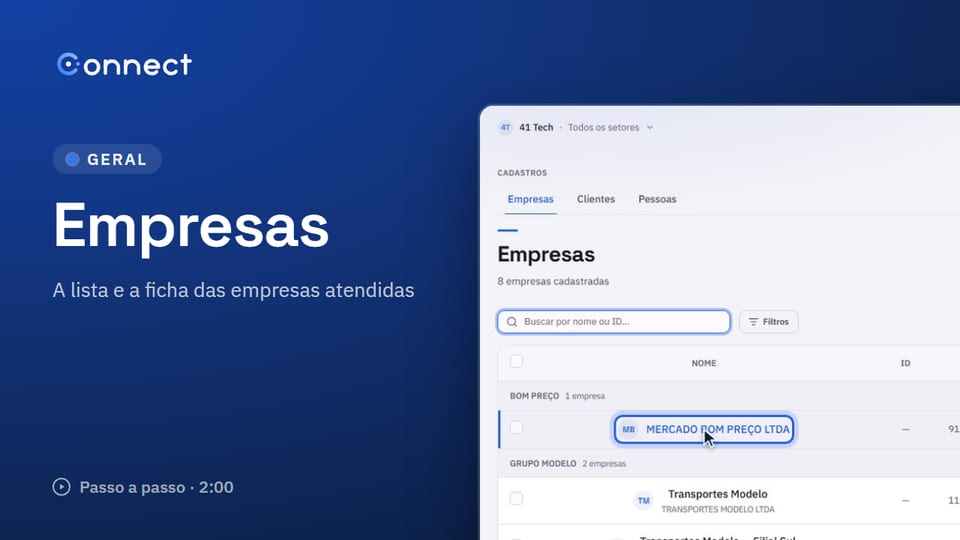
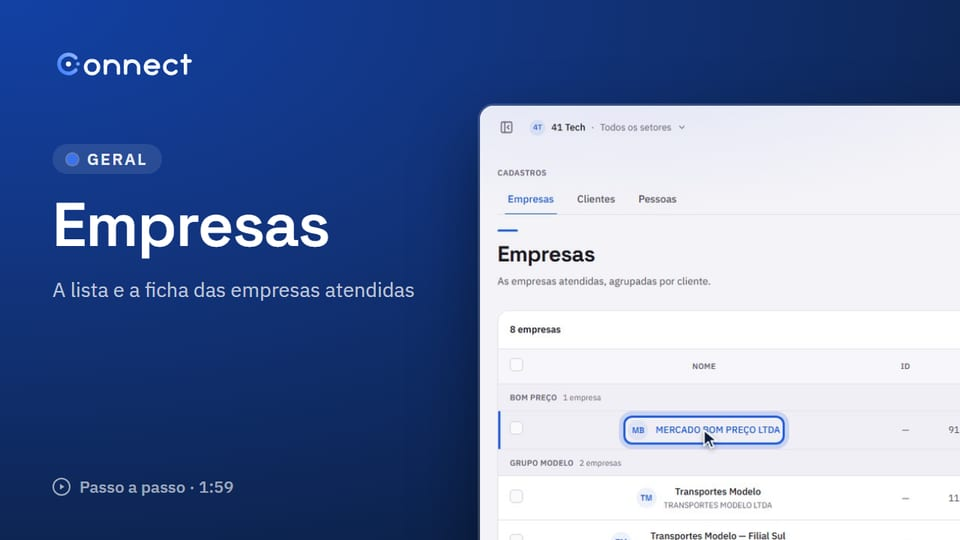
Vídeos: roteiros acompanham as telas de 08/10, e as miniaturas do 22 e do 25
Os vídeos 22 (Empresas) e 25 (Solicitações) foram regravados contra o
Connect local depois dos envios ao cliente irem para Solicitações. Para isso
o roteiro acompanhou o que mudou nas telas:
- escolher opção abre o seletor próprio (#141) e clica na opção — vale para
  os 31 usos do ajudante; o <select> nativo continua funcionando;
- a busca das listas virou campo de busca com o limpar próprio: achada pelo
  texto de exemplo;
- as etapas do cadastro são lista numerada, não abas.
As miniaturas dos dois foram geradas de novo das gravações novas.

diff --git a/scripts/videos/equipe.ts b/scripts/videos/equipe.ts
@@ -52,14 +52,36 @@ async function escolherEmpresa(r: Roteiro, busca: string, legenda = "Escolha a e
 
 /** Escolhe uma opção num `<select>` comum, com o anel e o clique visíveis. */
 async function selecionar(r: Roteiro, campo: Locator, opcao: string | { label: string } | RegExp, legenda?: string) {
-  await r.apontar(campo, legenda);
-  if (opcao instanceof RegExp) {
-    const valor = await campo.locator("option").filter({ hasText: opcao }).first().getAttribute("value");
-    await campo.selectOption(valor ?? "");
-  } else {
-    await campo.selectOption(opcao);
+  // O seletor do Connect (08/10/2026, #141) é um botão "combobox" com a lista
+  // num painel próprio; o `<select>` de verdade fica escondido ao lado, só para
+  // o formulário. Gravar como a pessoa faz: abrir e clicar na opção.
+  const tag = await campo.evaluate((el) => el.tagName.toLowerCase());
+  if (tag === "select") {
+    await r.apontar(campo, legenda);
+    if (opcao instanceof RegExp) {
+      const valor = await campo.locator("option").filter({ hasText: opcao }).first().getAttribute("value");
+      await campo.selectOption(valor ?? "");
+    } else {
+      await campo.selectOption(opcao);
+    }
+    await r.pausa(600);
+    return;
   }
-  await r.pausa(600);
+  let rotulo: string | RegExp = opcao instanceof RegExp ? opcao : typeof opcao === "string" ? opcao : opcao.label;
+  if (typeof opcao === "string") {
+    // Quem chama às vezes passa o value: o texto da opção vem do <select> escondido.
+    const doValor = await campo
+      .locator("xpath=preceding-sibling::select[1]")
+      .locator(`option[value="${opcao.replace(/"/g, '\\"')}"]`)
+      .first()
+      .textContent({ timeout: 1000 })
+      .catch(() => null);
+    if (doValor?.trim()) rotulo = doValor.trim();
+  }
+  await r.clicar(campo, legenda);
+  const opcaoNaLista = r.page.getByRole("listbox").last().getByRole("option", typeof rotulo === "string" ? { name: rotulo, exact: true } : { name: rotulo });
+  await r.clicar(opcaoNaLista.first());
+  await r.pausa(400);
 }
 
 /** Datas do Connect (`CampoData`): digitar vale, com máscara; Tab fecha o calendário. */
@@ -462,7 +484,7 @@ function videosDoBpo(apoio: string): DefinicaoDeVideo[] {
           main(r).getByRole("link", { name: "Todos" }),
           "As abas Fornecedores, Sacados e Todos separam os cadastros. O que ainda não tem conta aparece nas duas primeiras."
         );
-        await r.apontar(main(r).getByRole("textbox", { name: /Buscar por nome/ }), "Busque pelo nome ou documento e tecle Enter.");
+        await r.apontar(main(r).getByPlaceholder(/Buscar por nome/), "Busque pelo nome ou documento e tecle Enter.");
         await r.apontar(
           main(r).getByRole("button", { name: "Editar" }).first(),
           "Em Editar, mude os dados — ou a Situação para Inativo. Cadastro não é apagado."
@@ -1187,10 +1209,10 @@ function videosGerais(apoio: string): DefinicaoDeVideo[] {
         await r.cartaz(SELO, "Empresas", "A lista e a ficha das empresas atendidas");
         await r.clicar(barraLateral(r).getByRole("link", { name: "Cadastros" }), "Abra Cadastros na barra lateral e fique na aba Empresas.");
         await r.esperarTela(/\/(empresas|cadastros)/);
-        await r.digitar(main(r).getByRole("textbox", { name: /Buscar por nome/ }), "bom", "Digite parte do nome ou do ID para achar uma empresa.");
+        await r.digitar(main(r).getByPlaceholder(/Buscar por nome/), "bom", "Digite parte do nome ou do ID para achar uma empresa.");
         await r.page.waitForLoadState("networkidle").catch(() => {});
         await r.pausa(900);
-        await main(r).getByRole("textbox", { name: /Buscar por nome/ }).fill("");
+        await main(r).getByPlaceholder(/Buscar por nome/).fill("");
         await r.page.waitForLoadState("networkidle").catch(() => {});
         await r.apontar(
           main(r).getByRole("button", { name: /^Filtros/ }),
@@ -1226,7 +1248,8 @@ function videosGerais(apoio: string): DefinicaoDeVideo[] {
           "Escolha o Tipo de cadastro. Com CNPJ, os dados se preenchem sozinhos ao completar os dígitos."
         );
         await r.apontar(
-          main(r).getByRole("tablist"),
+          // As etapas viraram lista numerada (07/10/2026), não mais abas.
+          main(r).getByRole("list").filter({ hasText: "Identificação" }).first(),
           "Complete cada etapa e clique em Avançar →. Na última, revise e clique em Confirmar e salvar."
         );
         await r.soltar();
@@ -1244,7 +1267,7 @@ function videosGerais(apoio: string): DefinicaoDeVideo[] {
         await r.cartaz(SELO, "Pessoas", "Os funcionários do escritório e a ficha de cada um");
         await r.clicar(main(r).getByRole("tab", { name: "Pessoas" }), "Em Cadastros, clique na aba Pessoas.");
         await r.esperarTela(/\/pessoas/);
-        await r.apontar(main(r).getByRole("textbox", { name: /Buscar por nome/ }), "Busque pelo nome.");
+        await r.apontar(main(r).getByPlaceholder(/Buscar por nome/), "Busque pelo nome.");
         await r.apontar(main(r).getByRole("button", { name: /^Filtros/ }), "Para ver quem está inativo, Filtros → Situação: Inativos ou Todos.");
         await r.clicar(main(r).getByRole("link", { name: /Ana Beatriz Correia/ }).first(), "Clique no nome para abrir a ficha.");
         await r.esperarTela(/\/pessoas\/[^/]+$/);
@@ -2113,10 +2136,10 @@ function videosDoRecrutamento(): DefinicaoDeVideo[] {
       async executar(r) {
         await r.ir("/candidatos");
         await r.cartaz(SELO, "Candidatos", "O banco de talentos do escritório");
-        await r.digitar(main(r).getByRole("textbox", { name: /Buscar por nome/ }), "Isabela", "Busque pelo nome, e-mail ou CPF.");
+        await r.digitar(main(r).getByPlaceholder(/Buscar por nome/), "Isabela", "Busque pelo nome, e-mail ou CPF.");
         await r.page.waitForLoadState("networkidle").catch(() => {});
         await r.pausa(900);
-        await main(r).getByRole("textbox", { name: /Buscar por nome/ }).fill("");
+        await main(r).getByPlaceholder(/Buscar por nome/).fill("");
         await r.page.waitForLoadState("networkidle").catch(() => {});
         await r.apontar(main(r).getByRole("button", { name: "Filtrar a coluna tags" }), "O filtro da coluna Tags acha quem tem uma habilidade.");
         await r.apontar(main(r).getByRole("button", { name: /^Filtros/ }), "A lista mostra os ativos. Para ver os inativos, Filtros → Situação.");
@@ -2149,7 +2172,7 @@ function videosDoRecrutamento(): DefinicaoDeVideo[] {
         await r.ir("/colaboradores-clientes");
         await r.cartaz(SELO, "Colaboradores de clientes", "Quem trabalha nas empresas clientes");
         await r.legenda("É este cadastro que alimenta a admissão, as férias e a rescisão no DP.");
-        await r.apontar(main(r).getByRole("textbox", { name: /Buscar por nome/ }), "Busque pelo nome…");
+        await r.apontar(main(r).getByPlaceholder(/Buscar por nome/), "Busque pelo nome…");
         await r.apontar(main(r).getByRole("button", { name: /^Filtros/ }), "…e use Filtros para a Empresa e a Situação.");
         await r.clicar(main(r).getByRole("link", { name: /Aline Fernandes/ }).first(), "Clique no nome para abrir a ficha.");
         await r.page.waitForURL(/\/pessoas\/[^/]+$/, { timeout: 20000 });
